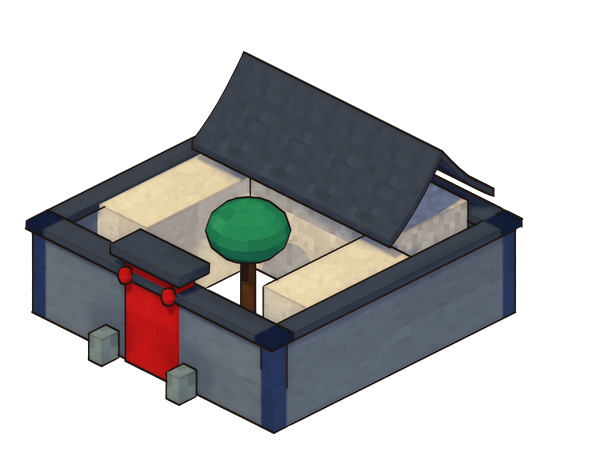
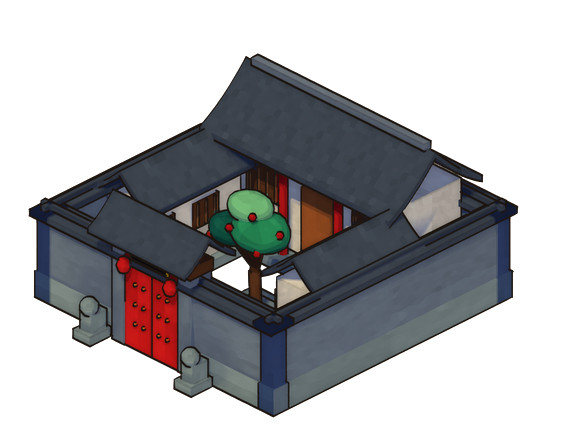
feat(art): courtyard proxy v2 — roofed wings, gatehouse, pomegranate tree
Wings had no roofs and the courtyard tree was a sphere. Adds stone base
band, gatehouse with plaque and studded double doors, lions, a columned
main-hall front with lattice windows, roofed wings, and a pomegranate tree.

diff --git a/pipeline/blender/make_proxy_assets.py b/pipeline/blender/make_proxy_assets.py
@@ -530,26 +530,92 @@ def build_prop_beacon_brazier():
         cyl(f"spare{k}", 0.06, 0.7, (0.75, -0.45 + k * 0.12, 0.35), "ochre", rot=(0, math.radians(20), 0), verts=6)
 
 
+def _canopy(name, clusters, tex_name="leaf_clouds"):
+    """云头状树冠：几团扁椭球 + 云纹置换（同古松的针叶团做法，边缘起伏像版画里的一簇簇叶子）。"""
+    tex = bpy.data.textures.get(tex_name) or bpy.data.textures.new(tex_name, type="CLOUDS")
+    tex.noise_scale = 0.3
+    for i, (c, r, m) in enumerate(clusters):
+        bpy.ops.mesh.primitive_ico_sphere_add(subdivisions=3, radius=r, location=c)
+        o = bpy.context.active_object
+        o.name = f"{name}{i}"
+        o.scale = (1.0, 0.9, 0.55)
+        bpy.ops.object.transform_apply(location=False, rotation=False, scale=True)
+        mod = o.modifiers.new("clouds", "DISPLACE")
+        mod.texture = tex
+        mod.strength = 0.2 * r
+        mod.mid_level = 0.5
+        bpy.ops.object.shade_smooth()
+        assign(o, m)
+
+
 def build_house_lv3_courtyard():
-    """青砖大院（3×3）：砖墙围合 + 正房与两厢青瓦顶 + 朱红大门 + 石狮 + 院中小树"""
+    """青砖大院（3×3）：砖墙围合（墙帽 + 砖缝）+ 正房（朱柱前廊、格窗、门）与东西厢房（青瓦顶、格窗）
+    + 朱红双扇大门（门钉、匾额、门楼）+ 石狮一对 + 院中石榴树（多子多福）+ 太平缸"""
     L = 5.6
     for k, (sx, sy, w, d) in enumerate(((0, -1, L, 0.3), (0, 1, L, 0.3), (-1, 0, 0.3, L), (1, 0, 0.3, L))):
-        box(f"cwall{k}", (w, d, 1.6), (sx * (L / 2 - 0.15), sy * (L / 2 - 0.15), 0.8), "tile_light")
-        box(f"cwall_cap{k}", (w + 0.1, d + 0.2, 0.15), (sx * (L / 2 - 0.15), sy * (L / 2 - 0.15), 1.68), "tile_dark")
-    box("gate", (1.2, 0.4, 2.0), (0, -L / 2 + 0.15, 1.0), "cinnabar")
-    box("gate_roof", (1.6, 0.7, 0.18), (0, -L / 2 + 0.15, 2.1), "tile_dark")
+        cx, cy = sx * (L / 2 - 0.15), sy * (L / 2 - 0.15)
+        box(f"cwall{k}", (w, d, 1.6), (cx, cy, 0.8), "tile_light")
+        box(f"cwall_cap{k}", (w + 0.12, d + 0.24, 0.12), (cx, cy, 1.66), "tile_dark")
+        box(f"cwall_ridge{k}", (w + 0.02, 0.1 if d < w else d + 0.02, 0.1) if d < w else (0.1, d + 0.02, 0.1), (cx, cy, 1.77), "tile_dark")
+        box(f"cwall{k}_base", (w + 0.06, d + 0.06, 0.5), (cx, cy, 0.25), "stone")  # 青石下碱
+    # 门楼 + 双扇朱门 + 门钉 + 匾额
+    gy = -L / 2 + 0.15
     for sd in (-1, 1):
-        box(f"lion{sd}", (0.3, 0.4, 0.5), (sd * 0.9, -L / 2 - 0.25, 0.25), "stone")
-        sphere(f"lantern{sd}", 0.13, (sd * 0.5, -L / 2 - 0.15, 1.7), "cinnabar", scale=(1, 1, 1.25), seg=8)
-    box("main_hall", (4.2, 1.6, 2.0), (0, 1.6, 1.0), "lime_white")
-    gable_roof("main_roof", 4.6, 1.2, 2.0, 3.2, 0.14, "tile_dark")
-    obj = bpy.context.active_object
-    obj.location.y += 1.6
+        box(f"gate_pier{sd}", (0.3, 0.5, 2.1), (sd * 0.78, gy, 1.05), "tile_light")
+        box(f"gate_leaf{sd}", (0.62, 0.08, 1.75), (sd * 0.32, gy - 0.2, 0.88), "cinnabar")
+        for r in range(3):
+            for c in range(2):
+                sphere(f"stud{sd}_{r}{c}", 0.035, (sd * (0.18 + 0.2 * c), gy - 0.25, 0.5 + 0.38 * r), "gamboge", seg=6)
+    box("gate_lintel", (1.9, 0.55, 0.22), (0, gy, 2.0), "wood_dark")
+    box("gate_plaque", (0.8, 0.05, 0.3), (0, gy - 0.3, 1.93), "ink")
+    box("gate_plaque_rim", (0.88, 0.04, 0.36), (0, gy - 0.28, 1.93), "gamboge")
+    gable_roof("gate_roof", 2.3, 0.6, 2.1, 2.6, 0.1, "tile_dark", curve=0.2)
+    bpy.context.active_object.location.y += gy
+    for sd in (-1, 1):  # 石狮：须弥座 + 蹲身 + 圆头
+        box(f"lion_base{sd}", (0.4, 0.5, 0.18), (sd * 1.2, gy - 0.45, 0.09), "stone")
+        box(f"lion_body{sd}", (0.28, 0.36, 0.34), (sd * 1.2, gy - 0.42, 0.35), "stone")
+        sphere(f"lion_head{sd}", 0.17, (sd * 1.2, gy - 0.52, 0.62), "stone", seg=10)
+        sphere(f"lantern{sd}", 0.13, (sd * 0.55, gy - 0.35, 1.62), "cinnabar", scale=(1, 1, 1.25), seg=8)
+    # 正房：台基 + 墙 + 前廊朱柱 + 门 + 两侧格窗 + 双坡顶
+    hy = 1.6
+    box("main_plinth", (4.4, 1.9, 0.22), (0, hy, 0.11), "stone")
+    box("main_hall", (4.0, 1.4, 1.9), (0, hy + 0.15, 1.17), "lime_white")
+    for i, x in enumerate((-1.85, -0.65, 0.65, 1.85)):
+        cyl(f"main_col{i}", 0.08, 1.95, (x, hy - 0.72, 1.19), "cinnabar", verts=8)
+    box("main_door", (0.7, 0.05, 1.35), (0, hy - 0.57, 0.9), "ochre")
+    for i, x in enumerate((-1.25, 1.25)):
+        box(f"main_win{i}", (0.8, 0.05, 0.6), (x, hy - 0.57, 1.3), "wood_dark")
+        for j in range(4):
+            box(f"main_win{i}_m{j}", (0.03, 0.03, 0.56), (x - 0.3 + 0.2 * j, hy - 0.6, 1.3), "ochre_light")
+    gable_roof("main_roof", 4.5, 1.1, 2.05, 2.95, 0.12, "tile_dark")
+    bpy.context.active_object.location.y += hy
+    box("main_ridge", (4.1, 0.16, 0.14), (0, hy, 3.1), "tile_light")
+    # 东西厢房：墙 + 朝院心的格窗 + 青瓦双坡（屋脊沿 Y）
     for sd in (-1, 1):
-        box(f"wing{sd}", (1.3, 2.4, 1.7), (sd * 2.0, -0.4, 0.85), "lime_white")
-    cyl("tree_trunk", 0.12, 1.4, (0, -0.6, 0.7), "wood_dark", verts=8)
-    sphere("tree_top", 0.7, (0, -0.6, 1.8), "malachite", scale=(1, 1, 0.7))
-    cyl("vat", 0.3, 0.5, (0.9, -1.3, 0.25), "tile_dark", verts=12)
+        wx = sd * 2.05
+        box(f"wing{sd}", (1.05, 2.2, 1.5), (wx, -0.35, 0.85), "lime_white")
+        box(f"wing{sd}_plinth", (1.4, 2.4, 0.18), (wx, -0.35, 0.09), "stone")
+        for k, yy in enumerate((-1.0, 0.3)):
+            box(f"wing{sd}_win{k}", (0.05, 0.6, 0.5), (wx - sd * 0.54, -0.35 + yy * 0.8, 1.1), "wood_dark")
+            for j in range(3):
+                box(f"wing{sd}_win{k}_m{j}", (0.03, 0.03, 0.46), (wx - sd * 0.57, -0.35 + yy * 0.8 - 0.2 + 0.2 * j, 1.1), "ochre_light")
+        gable_roof(f"wing{sd}_roof", 2.5, 0.72, 1.6, 2.15, 0.1, "tile_dark")
+        r = bpy.context.active_object
+        r.rotation_euler = (0, 0, math.radians(90))
+        r.location = (wx, -0.35, 0)
+    # 院中石榴树：曲干 + 三团云头树冠 + 朱砂石榴果
+    rod("tree_trunk0", (0.35, -0.75, 0.0), (0.25, -0.7, 0.9), 0.1, "wood_dark", verts=8)
+    rod("tree_trunk1", (0.25, -0.7, 0.9), (0.45, -0.75, 1.5), 0.08, "wood_dark", verts=8)
+    rod("tree_branch", (0.25, -0.7, 1.0), (-0.2, -0.8, 1.45), 0.06, "wood_dark", verts=8)
+    _canopy("pom_leaves", [((0.45, -0.75, 1.75), 0.55, "malachite"), ((-0.15, -0.8, 1.6), 0.45, "pine_deep"),
+                           ((0.15, -0.7, 2.1), 0.42, "malachite_light")])
+    for k, (x, y, z) in enumerate(((0.75, -1.15, 1.6), (0.1, -1.15, 1.85), (-0.4, -1.1, 1.5), (0.5, -1.0, 2.15), (0.95, -0.8, 1.9))):
+        sphere(f"pomegranate{k}", 0.07, (x, y, z), "cinnabar", seg=8)
+    box("tree_bed", (0.9, 0.9, 0.16), (0.3, -0.75, 0.08), "stone")
+    cyl("vat", 0.32, 0.55, (-0.95, -1.35, 0.28), "tile_dark", verts=14)
+    cyl("vat_water", 0.27, 0.02, (-0.95, -1.35, 0.55), "water", verts=14)
+    # 院心青石板甬道
+    box("path", (0.9, 2.6, 0.04), (0, -1.3, 0.02), "stone")
 
 
 def build_ancestral_hall():

diff --git a/HANDOFF.md b/HANDOFF.md
@@ -208,3 +208,4 @@
 - **未做**：替身全部是半比例（64px/m），正式比例应在 Colab 烘。
 - **家人干活动作**：`make_characters.py` 加 `work` 动作（当家的双手抡锄刨地；阿莲 / 孩子弯腰插秧、两手交替往下点），`bake_sprite_anim.py` 只给家人多烘这一套（8 帧 8fps），新增 `pipeline/atlas/export_chars.py` 把烘培结果合并进 `chars.json`。演示：当家的一半时间、阿莲多半时间、孩子偶尔走到稻田边，面朝田干活；孩子闲逛不再走到山石上。开发台新增 `window.__demo`（`speed` 可写、`g` / `villagers` 只读，只在 dev server 里有），截图时把速度降到 1× 或 0。
 - **战斗反馈补回来**：建筑全换成精灵后，原来程序化画的“着火”丢了。现在 `inkDraw.drawFlames`（木刻风火舌 + 墨线勾边 + 飘烟）叠在屋面上，大建筑烧成 2–3 处火头；夜里受损的建筑头顶显示墨框血条（低于 35% 变藤黄，主屋仍看顶栏）；敌人被打跑时除了冒烟，还会掉头往山外跑 0.8 秒淡出（没在截图里抓到这一帧，代码跑过无报错）。
+- **青砖大院替身 v2**：原来两厢没有屋顶（烘出来是两块白方块）、院中树是个绿球。现在：青石下碱 + 砖墙 + 墙帽；门楼带匾额、双扇朱门 + 门钉；石狮一对；正房朱柱前廊 + 门 + 格窗；两厢青瓦顶 + 朝院心的格窗；院中石榴树（多子多福）+ 太平缸 + 甬道。样张 `docs/art/samples/proxy_courtyard_v2.png`。注意：单独烘某件替身要带 `--manifest assets_manifest.json`，否则按 1×1 默认尺寸烘。
